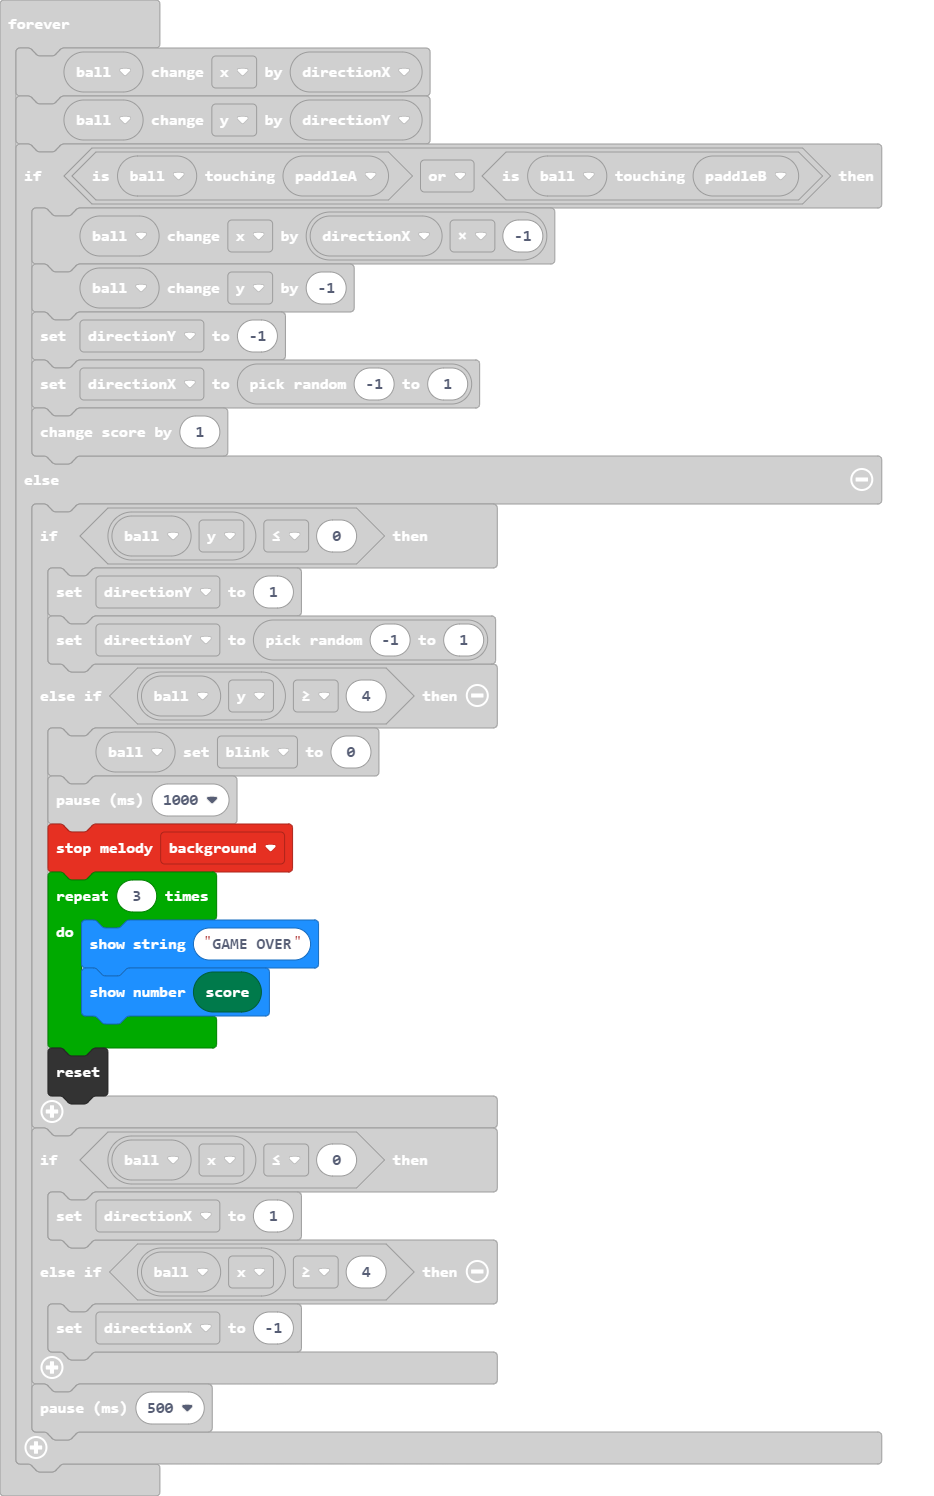
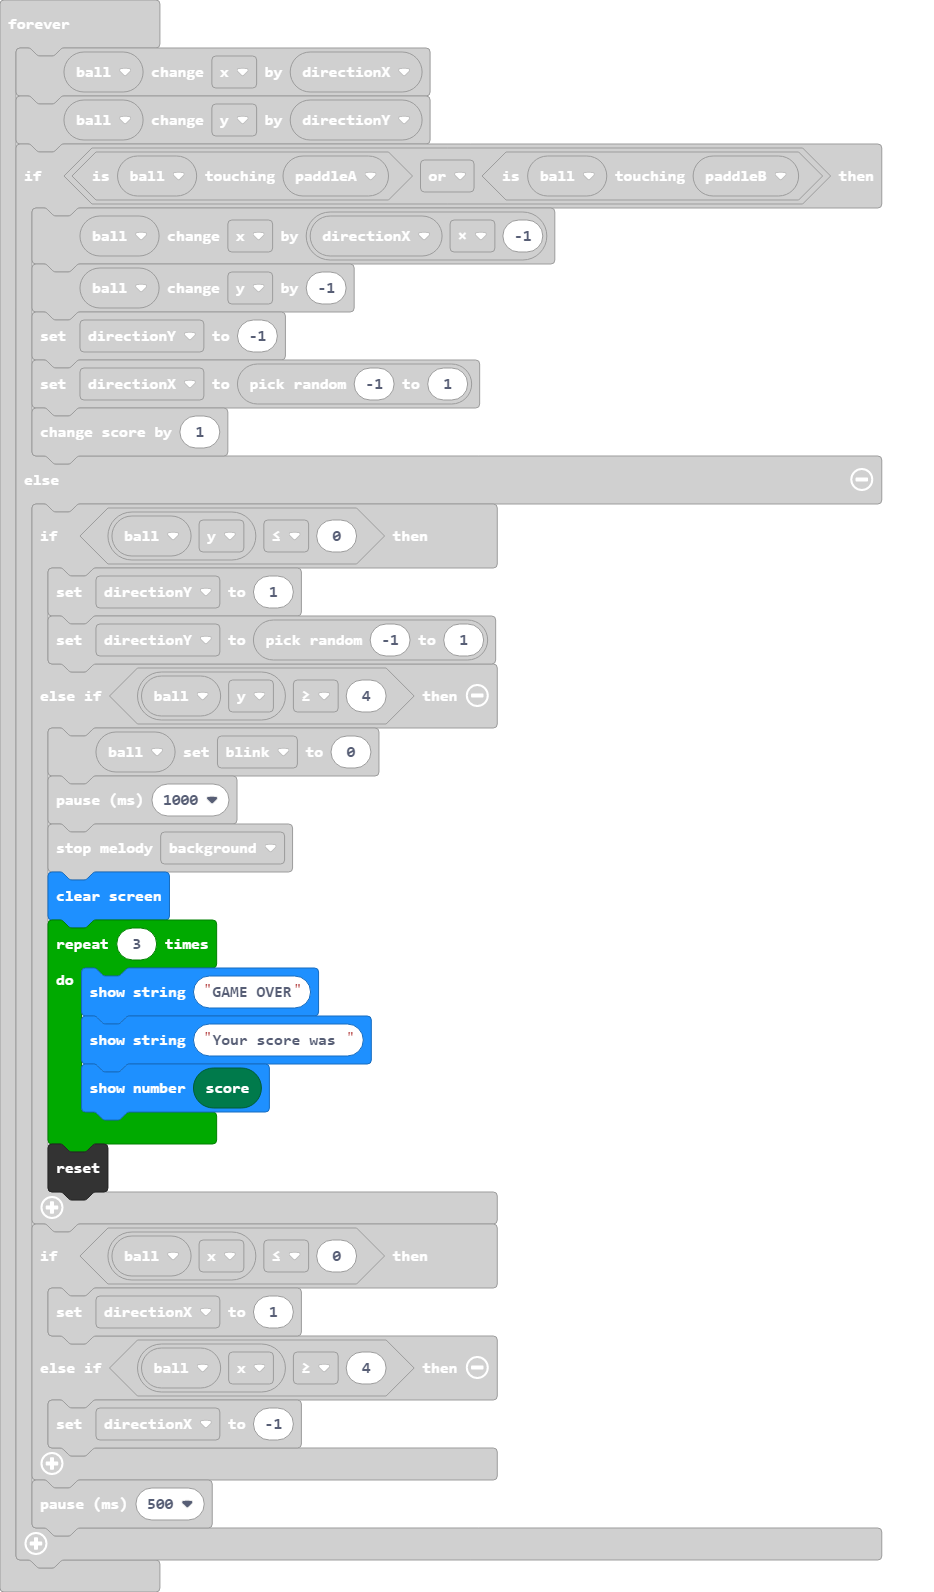
Update main.blocks, main.ts

Changed region(s): [[0.031, 0.0307, 0.9625, 0.984]]

diff --git a/main.ts b/main.ts
@@ -39,8 +39,10 @@ basic.forever(function () {
             ball.set(LedSpriteProperty.Blink, 0)
             basic.pause(1000)
             music.stopMelody(MelodyStopOptions.Background)
+            basic.clearScreen()
             for (let index = 0; index < 3; index++) {
                 basic.showString("GAME OVER")
+                basic.showString("Your score was ")
                 basic.showNumber(game.score())
             }
             control.reset()
